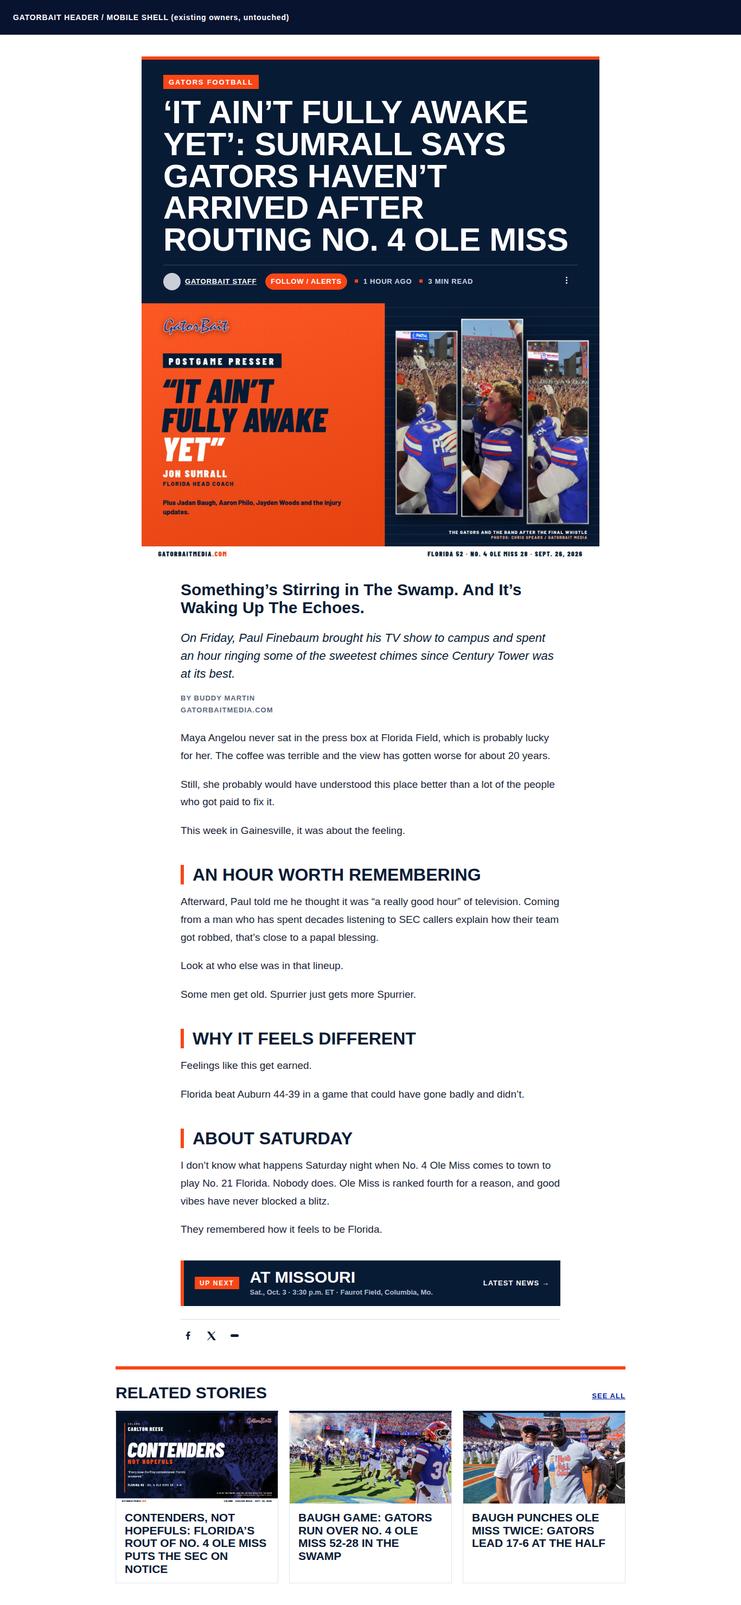
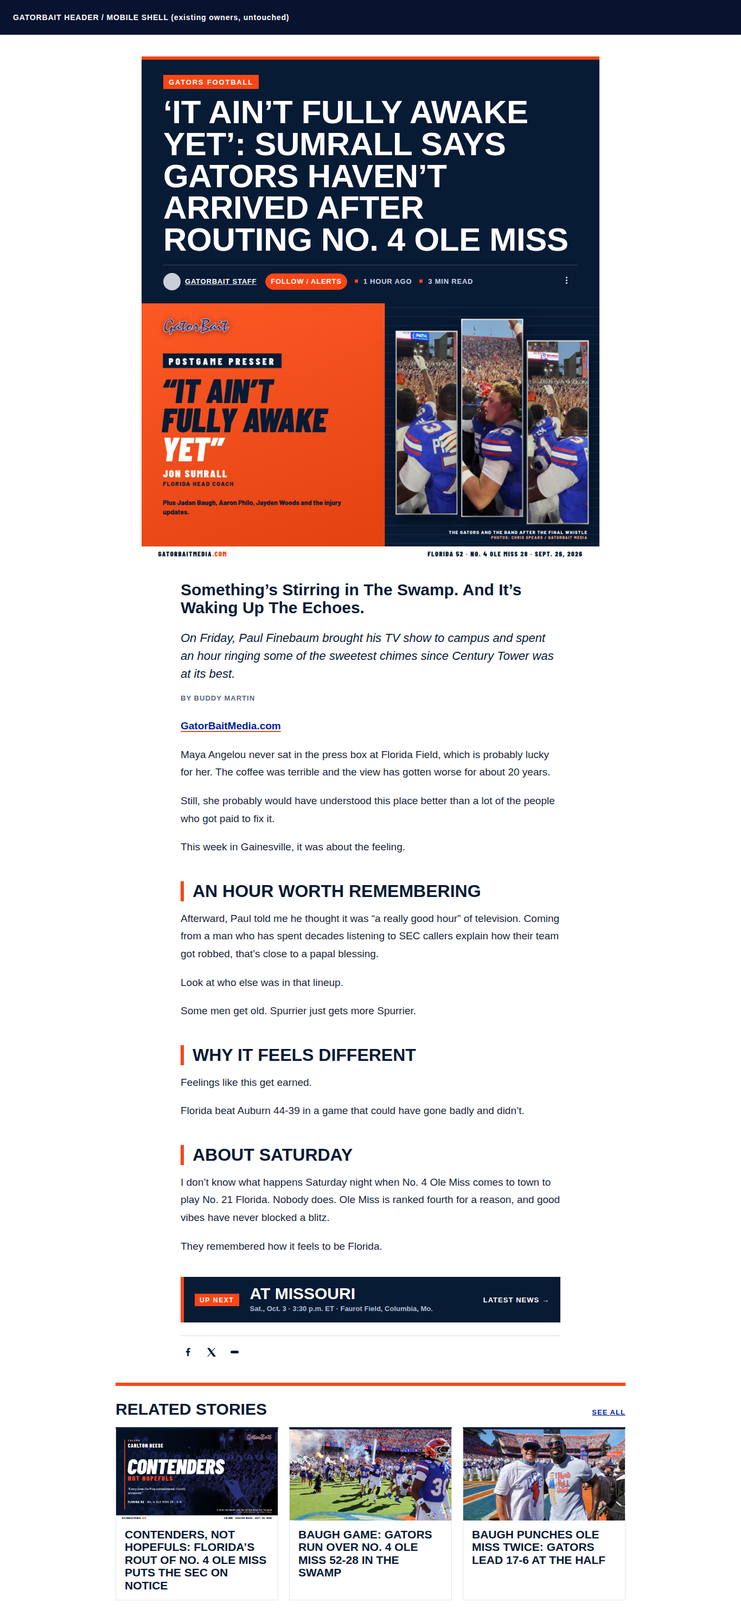
Post normalizer rev3 (embed c91ad133 rev3, live): tag Ricos viewer nodes, hide empty lines, html[data-gbm-nr] diagnostic
Live check on Buddy Martin's post: body unbolded, subheads styled, byline styled.
Open: paragraph gaps still visible live (Wix empty-line spacer blocks).

Claude-Session: https://claude.ai/code/session_01WPrfyiDi3ySUA7EuZTPJVf

Changed region(s): [[0.1537, 0.0311, 0.8609, 0.9642], [0.6457, 0.7776, 0.7379, 0.8087], [0.7072, 0.1244, 0.7687, 0.1555]]

diff --git a/design/post-normalizer-v1/mock-buddy.html b/design/post-normalizer-v1/mock-buddy.html
@@ -95,7 +95,7 @@ html:has(#gbm-site-header) [data-hook="post-page"] article h2{font-size:21px!imp
     </div></div></header>
 
     <section class="VQDdIN" data-hook="post-description"><div class="moHCnT"><div class="fTEXDR" data-rce-version="11.13.0"><div class="gRY6A" data-id="content-viewer" dir="ltr"><div class="Zfg9-">
-     <div data-hook="rcv-block-first" type="first"></div><div class="t39ig"><div data-breakout="normal"><div class="zDIwP" dir="auto"><span class="lig--"><br role="presentation"/></span></div></div><div data-breakout="normal"><p class="zDIwP" dir="auto"><span class="lig--"><strong style="font-weight:700"><span style="font-size:36px"><span>Something’s Stirring in The Swamp. And It’s Waking Up The Echoes.</span></span></strong></span></p></div><div data-breakout="normal"><div class="zDIwP" dir="auto"><span class="lig--"><br role="presentation"/></span></div></div><div data-breakout="normal"><p class="zDIwP" dir="auto"><span class="lig--"><strong style="font-weight:700"><em style="font-style:italic"><span style="font-size:24px"><span>On Friday, Paul Finebaum brought his TV show to campus and spent an hour ringing some of the sweetest chimes since Century Tower was at its best.</span></span></em></strong></span></p></div><div data-breakout="normal"><div class="zDIwP" dir="auto"><span class="lig--"><br role="presentation"/></span></div></div><div data-breakout="normal"><div class="zDIwP" dir="auto"><span class="lig--"><br role="presentation"/></span></div></div><div data-breakout="normal"><p class="zDIwP" dir="auto"><span class="lig--"><strong style="font-weight:700"><span>By Buddy Martin</span></strong></span></p></div><div data-breakout="normal"><p class="zDIwP" dir="auto"><span class="lig--"><a data-hook="web-link" href="http://GatorBaitMedia.com"><strong style="font-weight:700"><span>GatorBaitMedia.com</span></strong></a></span></p></div><div data-breakout="normal"><div class="zDIwP" dir="auto"><span class="lig--"><br role="presentation"/></span></div></div><div data-breakout="normal"><p class="zDIwP" dir="auto"><span class="lig--"><strong style="font-weight:700"><span>Maya Angelou never sat in the press box at Florida Field, which is probably lucky for her. The coffee was terrible and the view has gotten worse for about 20 years.</span></strong></span></p></div><div data-breakout="normal"><div class="zDIwP" dir="auto"><span class="lig--"><br role="presentation"/></span></div></div><div data-breakout="normal"><p class="zDIwP" dir="auto"><span class="lig--"><strong style="font-weight:700"><span>Still, she probably would have understood this place better than a lot of the people who got paid to fix it.</span></strong></span></p></div><div data-breakout="normal"><div class="zDIwP" dir="auto"><span class="lig--"><br role="presentation"/></span></div></div><div data-breakout="normal"><p class="zDIwP" dir="auto"><span class="lig--"><strong style="font-weight:700"><span>This week in Gainesville, it was about the feeling.</span></strong></span></p></div><div data-breakout="normal"><div class="zDIwP" dir="auto"><span class="lig--"><br role="presentation"/></span></div></div><div data-breakout="normal"><p class="zDIwP" dir="auto"><span class="lig--"><strong style="font-weight:700"><span>An Hour Worth Remembering</span></strong></span></p></div><div data-breakout="normal"><div class="zDIwP" dir="auto"><span class="lig--"><br role="presentation"/></span></div></div><div data-breakout="normal"><p class="zDIwP" dir="auto"><span class="lig--"><strong style="font-weight:700"><span>Afterward, Paul told me he thought it was “a really good hour” of television. Coming from a man who has spent decades listening to SEC callers explain how their team got robbed, that’s close to a papal blessing.</span></strong></span></p></div><div data-breakout="normal"><div class="zDIwP" dir="auto"><span class="lig--"><br role="presentation"/></span></div></div><div data-breakout="normal"><p class="zDIwP" dir="auto"><span class="lig--"><strong style="font-weight:700"><span>Look at who else was in that lineup.</span></strong></span></p></div><div data-breakout="normal"><div class="zDIwP" dir="auto"><span class="lig--"><br role="presentation"/></span></div></div><div data-breakout="normal"><p class="zDIwP" dir="auto"><span class="lig--"><strong style="font-weight:700"><span>Some men get old. Spurrier just gets more Spurrier.</span></strong></span></p></div><div data-breakout="normal"><div class="zDIwP" dir="auto"><span class="lig--"><br role="presentation"/></span></div></div><div data-breakout="normal"><p class="zDIwP" dir="auto"><span class="lig--"><strong style="font-weight:700"><span>Why It Feels Different</span></strong></span></p></div><div data-breakout="normal"><div class="zDIwP" dir="auto"><span class="lig--"><br role="presentation"/></span></div></div><div data-breakout="normal"><p class="zDIwP" dir="auto"><span class="lig--"><strong style="font-weight:700"><span>Feelings like this get earned.</span></strong></span></p></div><div data-breakout="normal"><div class="zDIwP" dir="auto"><span class="lig--"><br role="presentation"/></span></div></div><div data-breakout="normal"><p class="zDIwP" dir="auto"><span class="lig--"><strong style="font-weight:700"><span>Florida beat Auburn 44-39 in a game that could have gone badly and didn’t.</span></strong></span></p></div><div data-breakout="normal"><div class="zDIwP" dir="auto"><span class="lig--"><br role="presentation"/></span></div></div><div data-breakout="normal"><p class="zDIwP" dir="auto"><span class="lig--"><strong style="font-weight:700"><span>About Saturday</span></strong></span></p></div><div data-breakout="normal"><div class="zDIwP" dir="auto"><span class="lig--"><br role="presentation"/></span></div></div><div data-breakout="normal"><p class="zDIwP" dir="auto"><span class="lig--"><strong style="font-weight:700"><span>I don’t know what happens Saturday night when No. 4 Ole Miss comes to town to play No. 21 Florida. Nobody does. Ole Miss is ranked fourth for a reason, and good vibes have never blocked a blitz.</span></strong></span></p></div><div data-breakout="normal"><div class="zDIwP" dir="auto"><span class="lig--"><br role="presentation"/></span></div></div><div data-breakout="normal"><p class="zDIwP" dir="auto"><span class="lig--"><strong style="font-weight:700"><span>They remembered how it feels to be Florida.</span></strong></span></p></div><div data-breakout="normal"><div class="zDIwP" dir="auto"><span class="lig--"><br role="presentation"/></span></div></div></div><div data-hook="rcv-block-last" type="last"></div>
+     <div data-hook="rcv-block-first" type="first"></div><div class="t39ig"><div data-breakout="normal"><div class="zDIwP" id="viewer-x1" dir="auto"><span class="lig--"><br role="presentation"/></span></div></div><div data-breakout="normal"><p class="zDIwP" id="viewer-x2" dir="auto"><span class="lig--"><strong style="font-weight:700"><span style="font-size:36px"><span>Something’s Stirring in The Swamp. And It’s Waking Up The Echoes.</span></span></strong></span></p></div><div data-breakout="normal"><div class="zDIwP" id="viewer-x3" dir="auto"><span class="lig--"><br role="presentation"/></span></div></div><div data-breakout="normal"><p class="zDIwP" id="viewer-x4" dir="auto"><span class="lig--"><strong style="font-weight:700"><em style="font-style:italic"><span style="font-size:24px"><span>On Friday, Paul Finebaum brought his TV show to campus and spent an hour ringing some of the sweetest chimes since Century Tower was at its best.</span></span></em></strong></span></p></div><div data-breakout="normal"><div class="zDIwP" id="viewer-x5" dir="auto"><span class="lig--"><br role="presentation"/></span></div></div><div data-breakout="normal"><div class="zDIwP" id="viewer-x6" dir="auto"><span class="lig--"><br role="presentation"/></span></div></div><div data-breakout="normal"><p class="zDIwP" id="viewer-x7" dir="auto"><span class="lig--"><strong style="font-weight:700"><span>By Buddy Martin</span></strong></span></p></div><div data-breakout="normal"><p class="zDIwP" id="viewer-x8" dir="auto"><span class="lig--"><a data-hook="web-link" href="http://GatorBaitMedia.com"><strong style="font-weight:700"><span>GatorBaitMedia.com</span></strong></a></span></p></div><div data-breakout="normal"><div class="zDIwP" id="viewer-x9" dir="auto"><span class="lig--"><br role="presentation"/></span></div></div><div data-breakout="normal"><p class="zDIwP" id="viewer-x10" dir="auto"><span class="lig--"><strong style="font-weight:700"><span>Maya Angelou never sat in the press box at Florida Field, which is probably lucky for her. The coffee was terrible and the view has gotten worse for about 20 years.</span></strong></span></p></div><div data-breakout="normal"><div class="zDIwP" id="viewer-x11" dir="auto"><span class="lig--"><br role="presentation"/></span></div></div><div data-breakout="normal"><p class="zDIwP" id="viewer-x12" dir="auto"><span class="lig--"><strong style="font-weight:700"><span>Still, she probably would have understood this place better than a lot of the people who got paid to fix it.</span></strong></span></p></div><div data-breakout="normal"><div class="zDIwP" id="viewer-x13" dir="auto"><span class="lig--"><br role="presentation"/></span></div></div><div data-breakout="normal"><p class="zDIwP" id="viewer-x14" dir="auto"><span class="lig--"><strong style="font-weight:700"><span>This week in Gainesville, it was about the feeling.</span></strong></span></p></div><div data-breakout="normal"><div class="zDIwP" id="viewer-x15" dir="auto"><span class="lig--"><br role="presentation"/></span></div></div><div data-breakout="normal"><p class="zDIwP" id="viewer-x16" dir="auto"><span class="lig--"><strong style="font-weight:700"><span>An Hour Worth Remembering</span></strong></span></p></div><div data-breakout="normal"><div class="zDIwP" id="viewer-x17" dir="auto"><span class="lig--"><br role="presentation"/></span></div></div><div data-breakout="normal"><p class="zDIwP" id="viewer-x18" dir="auto"><span class="lig--"><strong style="font-weight:700"><span>Afterward, Paul told me he thought it was “a really good hour” of television. Coming from a man who has spent decades listening to SEC callers explain how their team got robbed, that’s close to a papal blessing.</span></strong></span></p></div><div data-breakout="normal"><div class="zDIwP" id="viewer-x19" dir="auto"><span class="lig--"><br role="presentation"/></span></div></div><div data-breakout="normal"><p class="zDIwP" id="viewer-x20" dir="auto"><span class="lig--"><strong style="font-weight:700"><span>Look at who else was in that lineup.</span></strong></span></p></div><div data-breakout="normal"><div class="zDIwP" id="viewer-x21" dir="auto"><span class="lig--"><br role="presentation"/></span></div></div><div data-breakout="normal"><p class="zDIwP" id="viewer-x22" dir="auto"><span class="lig--"><strong style="font-weight:700"><span>Some men get old. Spurrier just gets more Spurrier.</span></strong></span></p></div><div data-breakout="normal"><div class="zDIwP" id="viewer-x23" dir="auto"><span class="lig--"><br role="presentation"/></span></div></div><div data-breakout="normal"><p class="zDIwP" id="viewer-x24" dir="auto"><span class="lig--"><strong style="font-weight:700"><span>Why It Feels Different</span></strong></span></p></div><div data-breakout="normal"><div class="zDIwP" id="viewer-x25" dir="auto"><span class="lig--"><br role="presentation"/></span></div></div><div data-breakout="normal"><p class="zDIwP" id="viewer-x26" dir="auto"><span class="lig--"><strong style="font-weight:700"><span>Feelings like this get earned.</span></strong></span></p></div><div data-breakout="normal"><div class="zDIwP" id="viewer-x27" dir="auto"><span class="lig--"><br role="presentation"/></span></div></div><div data-breakout="normal"><p class="zDIwP" id="viewer-x28" dir="auto"><span class="lig--"><strong style="font-weight:700"><span>Florida beat Auburn 44-39 in a game that could have gone badly and didn’t.</span></strong></span></p></div><div data-breakout="normal"><div class="zDIwP" id="viewer-x29" dir="auto"><span class="lig--"><br role="presentation"/></span></div></div><div data-breakout="normal"><p class="zDIwP" id="viewer-x30" dir="auto"><span class="lig--"><strong style="font-weight:700"><span>About Saturday</span></strong></span></p></div><div data-breakout="normal"><div class="zDIwP" id="viewer-x31" dir="auto"><span class="lig--"><br role="presentation"/></span></div></div><div data-breakout="normal"><p class="zDIwP" id="viewer-x32" dir="auto"><span class="lig--"><strong style="font-weight:700"><span>I don’t know what happens Saturday night when No. 4 Ole Miss comes to town to play No. 21 Florida. Nobody does. Ole Miss is ranked fourth for a reason, and good vibes have never blocked a blitz.</span></strong></span></p></div><div data-breakout="normal"><div class="zDIwP" id="viewer-x33" dir="auto"><span class="lig--"><br role="presentation"/></span></div></div><div data-breakout="normal"><p class="zDIwP" id="viewer-x34" dir="auto"><span class="lig--"><strong style="font-weight:700"><span>They remembered how it feels to be Florida.</span></strong></span></p></div><div data-breakout="normal"><div class="zDIwP" id="viewer-x35" dir="auto"><span class="lig--"><br role="presentation"/></span></div></div></div><div data-hook="rcv-block-last" type="last"></div>
     </div></div></div></div></section>
 
     <footer class="PhCafd B6ltWa" data-hook="post-footer"><div class="PKQ95p"><div class="KVKbzt aQg0ny"><section class="Xyiv4I" data-hook="post-main-actions-desktop"><div class="eFSltK"><div class="Zt1NVN">

diff --git a/design/post-normalizer-v1/normalizer-embed.html b/design/post-normalizer-v1/normalizer-embed.html
@@ -1,4 +1,4 @@
-<!-- GBM_POST_NORMALIZER_V1 --><style id="gbm-post-norm">html body #SITE_PAGES [data-hook=post-page] [data-hook=post-description] [data-gbm-empty]{display:none!important}html[data-gbm-unbold] body #SITE_PAGES [data-hook=post-page] [data-hook=post-description] p :is(strong,b){font-weight:inherit!important}html body #SITE_PAGES [data-hook=post-page] [data-hook=post-description] p[data-gbm-h]{margin:46px 0 16px!important;padding:2px 0 2px 16px!important;border-left:6px solid #fa4616;color:#081b35!important;font:800 32px/1.02 "Barlow Condensed","Barlow",Arial,sans-serif!important;letter-spacing:0!important;text-transform:uppercase}html body #SITE_PAGES [data-hook=post-page] [data-hook=post-description] p[data-gbm-h] *{font:inherit!important;color:inherit!important}html body #SITE_PAGES [data-hook=post-page] [data-hook=post-description] p[data-gbm-dek]{margin:6px 0 22px!important;color:#081b35!important;font:700 30px/1.12 "Barlow Condensed","Barlow",Arial,sans-serif!important}html body #SITE_PAGES [data-hook=post-page] [data-hook=post-description] p[data-gbm-dek] *{font:inherit!important;color:inherit!important}html body #SITE_PAGES [data-hook=post-page] [data-hook=post-description] p[data-gbm-lede]{color:#081b35!important;font-size:22px!important;line-height:1.5!important;font-weight:500!important}html body #SITE_PAGES [data-hook=post-page] [data-hook=post-description] p[data-gbm-lede] *{font-weight:inherit!important}html body #SITE_PAGES [data-hook=post-page] [data-hook=post-description] p[data-gbm-meta]{margin:0 0 4px!important;color:#5b677a!important;font:700 13px/1.4 "Barlow",Arial,sans-serif!important;letter-spacing:.08em;text-transform:uppercase}html body #SITE_PAGES [data-hook=post-page] [data-hook=post-description] p[data-gbm-meta] *{font:inherit!important;color:inherit!important;text-decoration:none!important}html body #SITE_PAGES [data-hook=post-page] [data-hook=post-description] p[data-gbm-meta-last]{margin-bottom:26px!important}@media(max-width:750px){html body #SITE_PAGES [data-hook=post-page] [data-hook=post-description] p[data-gbm-h]{margin-top:38px!important;font-size:27px!important}html body #SITE_PAGES [data-hook=post-page] [data-hook=post-description] p[data-gbm-dek]{font-size:25px!important}html body #SITE_PAGES [data-hook=post-page] [data-hook=post-description] p[data-gbm-lede]{font-size:19.5px!important}}</style><script id="gbm-post-norm-js">(function(){
+<!-- GBM_POST_NORMALIZER_V1 --><style id="gbm-post-norm">html body #SITE_PAGES [data-hook=post-page] [data-hook=post-description] [data-gbm-empty],html body #SITE_PAGES [data-hook=post-page] [data-hook=post-description] [data-breakout]:has(>[data-gbm-empty]){display:none!important}html[data-gbm-unbold] body #SITE_PAGES [data-hook=post-page] [data-hook=post-description] p :is(strong,b){font-weight:inherit!important}html body #SITE_PAGES [data-hook=post-page] [data-hook=post-description] p[data-gbm-h]{margin:46px 0 16px!important;padding:2px 0 2px 16px!important;border-left:6px solid #fa4616;color:#081b35!important;font:800 32px/1.02 "Barlow Condensed","Barlow",Arial,sans-serif!important;letter-spacing:0!important;text-transform:uppercase}html body #SITE_PAGES [data-hook=post-page] [data-hook=post-description] p[data-gbm-h] *{font:inherit!important;color:inherit!important}html body #SITE_PAGES [data-hook=post-page] [data-hook=post-description] p[data-gbm-dek]{margin:6px 0 22px!important;color:#081b35!important;font:700 30px/1.12 "Barlow Condensed","Barlow",Arial,sans-serif!important}html body #SITE_PAGES [data-hook=post-page] [data-hook=post-description] p[data-gbm-dek] *{font:inherit!important;color:inherit!important}html body #SITE_PAGES [data-hook=post-page] [data-hook=post-description] p[data-gbm-lede]{color:#081b35!important;font-size:22px!important;line-height:1.5!important;font-weight:500!important}html body #SITE_PAGES [data-hook=post-page] [data-hook=post-description] p[data-gbm-lede] *{font-weight:inherit!important}html body #SITE_PAGES [data-hook=post-page] [data-hook=post-description] p[data-gbm-meta]{margin:0 0 4px!important;color:#5b677a!important;font:700 13px/1.4 "Barlow",Arial,sans-serif!important;letter-spacing:.08em;text-transform:uppercase}html body #SITE_PAGES [data-hook=post-page] [data-hook=post-description] p[data-gbm-meta] *{font:inherit!important;color:inherit!important;text-decoration:none!important}html body #SITE_PAGES [data-hook=post-page] [data-hook=post-description] p[data-gbm-meta-last]{margin-bottom:26px!important}@media(max-width:750px){html body #SITE_PAGES [data-hook=post-page] [data-hook=post-description] p[data-gbm-h]{margin-top:38px!important;font-size:27px!important}html body #SITE_PAGES [data-hook=post-page] [data-hook=post-description] p[data-gbm-dek]{font-size:25px!important}html body #SITE_PAGES [data-hook=post-page] [data-hook=post-description] p[data-gbm-lede]{font-size:19.5px!important}}</style><script id="gbm-post-norm-js">(function(){
 'use strict';
 if(window.__GBM_NORM__)return;window.__GBM_NORM__=1;
 function txt(e){return (e.textContent||'').replace(/ /g,' ').replace(/\s+/g,' ').trim();}
@@ -11,22 +11,25 @@ return !!any;
 }
 function maxSize(p){var m=0;p.querySelectorAll('[style*="font-size"]').forEach(function(e){var v=parseFloat(e.style.fontSize);if(v>m)m=v;});return m;}
 function run(){
+var H=document.documentElement;
 if(!/^\/post\//.test(location.pathname))return;
-var d=document.querySelector('[data-hook=post-page] [data-hook=post-description]');
-if(!d)return;
-var blocks=d.querySelectorAll('[data-breakout]');if(!blocks.length)return;
-var sig=blocks.length+':'+d.querySelectorAll('[data-gbm-empty],[data-gbm-h],[data-gbm-meta],[data-gbm-dek],[data-gbm-lede]').length;if(d.__gbmSig===sig)return;
+var d=document.querySelector('[data-hook=post-description]');
+if(!d){H.setAttribute('data-gbm-nr','nodesc');return;}
+var nodes=d.querySelectorAll('p[id^="viewer-"],div[id^="viewer-"]');
+if(!nodes.length)nodes=d.querySelectorAll('p');
+if(!nodes.length){H.setAttribute('data-gbm-nr','nonodes');return;}
+var sig=nodes.length+':'+d.querySelectorAll('[data-gbm-empty],[data-gbm-h],[data-gbm-meta],[data-gbm-dek],[data-gbm-lede]').length;if(d.__gbmSig===sig)return;
 var paras=[],bold=0;
-blocks.forEach(function(b){
-var el=b.firstElementChild;if(!el)return;
-if(el.matches('p,div')&&!el.querySelector('img,iframe,video,figure,[data-hook]')&&!txt(el)){b.setAttribute('data-gbm-empty','');return;}
-var p=b.querySelector(':scope>p');if(!p)return;
-var t=txt(p);if(!t)return;
-paras.push(p);if(allBold(p))bold++;
+nodes.forEach(function(el){
+if(el.querySelector('img,iframe,video,figure,[data-hook]'))return;
+var t=txt(el);
+if(!t){el.setAttribute('data-gbm-empty','');return;}
+if(el.tagName!=='P')return;
+paras.push(el);if(allBold(el))bold++;
 });
-if(paras.length<3){d.__gbmSig=sig;return;}
+if(paras.length<3){d.__gbmSig=sig;H.setAttribute('data-gbm-nr','few-'+paras.length);return;}
 var unbold=paras.length>=5&&bold/paras.length>=.6;
-if(unbold)document.documentElement.setAttribute('data-gbm-unbold','');else document.documentElement.removeAttribute('data-gbm-unbold');
+if(unbold)H.setAttribute('data-gbm-unbold','');else H.removeAttribute('data-gbm-unbold');
 var metaEnd=null;
 paras.forEach(function(p,i){
 var t=txt(p),sz=maxSize(p),b=allBold(p);
@@ -35,10 +38,12 @@ var nx=paras[i+1];if(nx&&/^(www\.)?gatorbaitmedia\.com$/i.test(txt(nx))){nx.setA
 if(p.hasAttribute('data-gbm-meta'))return;
 if(sz>=30&&t.length<=120){p.setAttribute('data-gbm-dek','');return;}
 if(sz>=22){p.setAttribute('data-gbm-lede','');return;}
-if(b&&unbold!==null&&t.length<=60&&t.split(' ').length<=9&&!/[.!?,;:"”’)]$/.test(t)&&!/^\d/.test(t))p.setAttribute('data-gbm-h','');
+if(b&&t.length<=60&&t.split(' ').length<=9&&!/[.!?,;:"”’)]$/.test(t)&&!/^\d/.test(t))p.setAttribute('data-gbm-h','');
 });
 if(metaEnd)metaEnd.setAttribute('data-gbm-meta-last','');
-d.__gbmSig=blocks.length+':'+d.querySelectorAll('[data-gbm-empty],[data-gbm-h],[data-gbm-meta],[data-gbm-dek],[data-gbm-lede]').length;
+var n=d.querySelectorAll('[data-gbm-empty],[data-gbm-h],[data-gbm-meta],[data-gbm-dek],[data-gbm-lede]').length;
+d.__gbmSig=nodes.length+':'+n;
+H.setAttribute('data-gbm-nr','ok-'+paras.length+'-'+bold+'-'+n);
 }
 function go(){try{run();}catch(e){console.warn('[GatorBait] post normalizer',e);}}
 var mo=new MutationObserver(function(){if(/^\/post\//.test(location.pathname))go();else document.documentElement.removeAttribute('data-gbm-unbold');});

diff --git a/design/post-normalizer-v1/normalizer.js b/design/post-normalizer-v1/normalizer.js
@@ -12,24 +12,27 @@ function allBold(p){
 }
 function maxSize(p){var m=0;p.querySelectorAll('[style*="font-size"]').forEach(function(e){var v=parseFloat(e.style.fontSize);if(v>m)m=v;});return m;}
 function run(){
+ var H=document.documentElement;
  if(!/^\/post\//.test(location.pathname))return;
- var d=document.querySelector('[data-hook=post-page] [data-hook=post-description]');
- if(!d)return;
- var blocks=d.querySelectorAll('[data-breakout]');if(!blocks.length)return;
- // Fast path: same blocks and all our tags still present -> nothing to do.
- var sig=blocks.length+':'+d.querySelectorAll('[data-gbm-empty],[data-gbm-h],[data-gbm-meta],[data-gbm-dek],[data-gbm-lede]').length;if(d.__gbmSig===sig)return;
+ var d=document.querySelector('[data-hook=post-description]');
+ if(!d){H.setAttribute('data-gbm-nr','nodesc');return;}
+ // Wix/Ricos paragraphs (and empty spacer lines) all carry id="viewer-…"; don't depend on wrapper structure.
+ var nodes=d.querySelectorAll('p[id^="viewer-"],div[id^="viewer-"]');
+ if(!nodes.length)nodes=d.querySelectorAll('p');
+ if(!nodes.length){H.setAttribute('data-gbm-nr','nonodes');return;}
+ var sig=nodes.length+':'+d.querySelectorAll('[data-gbm-empty],[data-gbm-h],[data-gbm-meta],[data-gbm-dek],[data-gbm-lede]').length;if(d.__gbmSig===sig)return;
  var paras=[],bold=0;
- blocks.forEach(function(b){
-  var el=b.firstElementChild;if(!el)return;
-  if(el.matches('p,div')&&!el.querySelector('img,iframe,video,figure,[data-hook]')&&!txt(el)){b.setAttribute('data-gbm-empty','');return;}
-  var p=b.querySelector(':scope>p');if(!p)return;
-  var t=txt(p);if(!t)return;
-  paras.push(p);if(allBold(p))bold++;
+ nodes.forEach(function(el){
+  if(el.querySelector('img,iframe,video,figure,[data-hook]'))return;
+  var t=txt(el);
+  if(!t){el.setAttribute('data-gbm-empty','');return;}
+  if(el.tagName!=='P')return;
+  paras.push(el);if(allBold(el))bold++;
  });
- if(paras.length<3){d.__gbmSig=sig;return;}
+ if(paras.length<3){d.__gbmSig=sig;H.setAttribute('data-gbm-nr','few-'+paras.length);return;}
  var unbold=paras.length>=5&&bold/paras.length>=.6;
  // Post-level switch lives on <html>: Wix re-renders the article DOM but never touches <html> attributes.
- if(unbold)document.documentElement.setAttribute('data-gbm-unbold','');else document.documentElement.removeAttribute('data-gbm-unbold');
+ if(unbold)H.setAttribute('data-gbm-unbold','');else H.removeAttribute('data-gbm-unbold');
  var metaEnd=null;
  paras.forEach(function(p,i){
   var t=txt(p),sz=maxSize(p),b=allBold(p);
@@ -39,10 +42,12 @@ function run(){
   if(sz>=30&&t.length<=120){p.setAttribute('data-gbm-dek','');return;}
   if(sz>=22){p.setAttribute('data-gbm-lede','');return;}
   // Short bold line with no sentence punctuation = a subhead the writer made by hand.
-  if(b&&unbold!==null&&t.length<=60&&t.split(' ').length<=9&&!/[.!?,;:"”’)]$/.test(t)&&!/^\d/.test(t))p.setAttribute('data-gbm-h','');
+  if(b&&t.length<=60&&t.split(' ').length<=9&&!/[.!?,;:"”’)]$/.test(t)&&!/^\d/.test(t))p.setAttribute('data-gbm-h','');
  });
  if(metaEnd)metaEnd.setAttribute('data-gbm-meta-last','');
- d.__gbmSig=blocks.length+':'+d.querySelectorAll('[data-gbm-empty],[data-gbm-h],[data-gbm-meta],[data-gbm-dek],[data-gbm-lede]').length;
+ var n=d.querySelectorAll('[data-gbm-empty],[data-gbm-h],[data-gbm-meta],[data-gbm-dek],[data-gbm-lede]').length;
+ d.__gbmSig=nodes.length+':'+n;
+ H.setAttribute('data-gbm-nr','ok-'+paras.length+'-'+bold+'-'+n);
 }
 function go(){try{run();}catch(e){console.warn('[GatorBait] post normalizer',e);}}
 // Wix hydrates/re-renders the article after first paint and drops attributes we added. Re-tag inside the

diff --git a/design/post-normalizer-v1/normalizer.src.css b/design/post-normalizer-v1/normalizer.src.css
@@ -1,7 +1,7 @@
 /* GatorBait post formatting normalizer v1 - SOURCE. Companion to post template v1 (embed 14a887e3).
    Wix editor habits (spacer lines, all-bold bodies, fake headings made of big bold paragraphs) are tagged by
    normalizer.js and restyled here. "§" = html body #SITE_PAGES [data-hook=post-page] [data-hook=post-description] */
-§ [data-gbm-empty]{display:none!important}
+§ [data-gbm-empty],§ [data-breakout]:has(>[data-gbm-empty]){display:none!important}
 /* All-bold body: bold means nothing when everything is bold. Normal weight; real emphasis inside stays via em. */
 html[data-gbm-unbold] body #SITE_PAGES [data-hook=post-page] [data-hook=post-description] p :is(strong,b){font-weight:inherit!important}
 /* Fake subheads -> real subhead look (same as template h2) */
